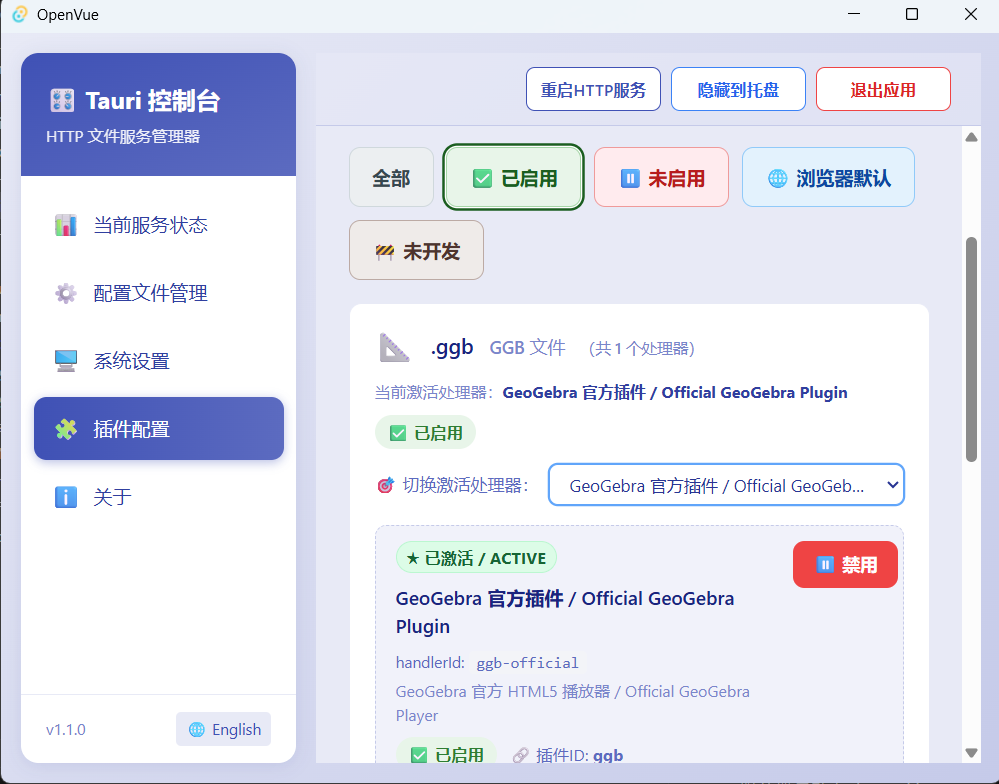
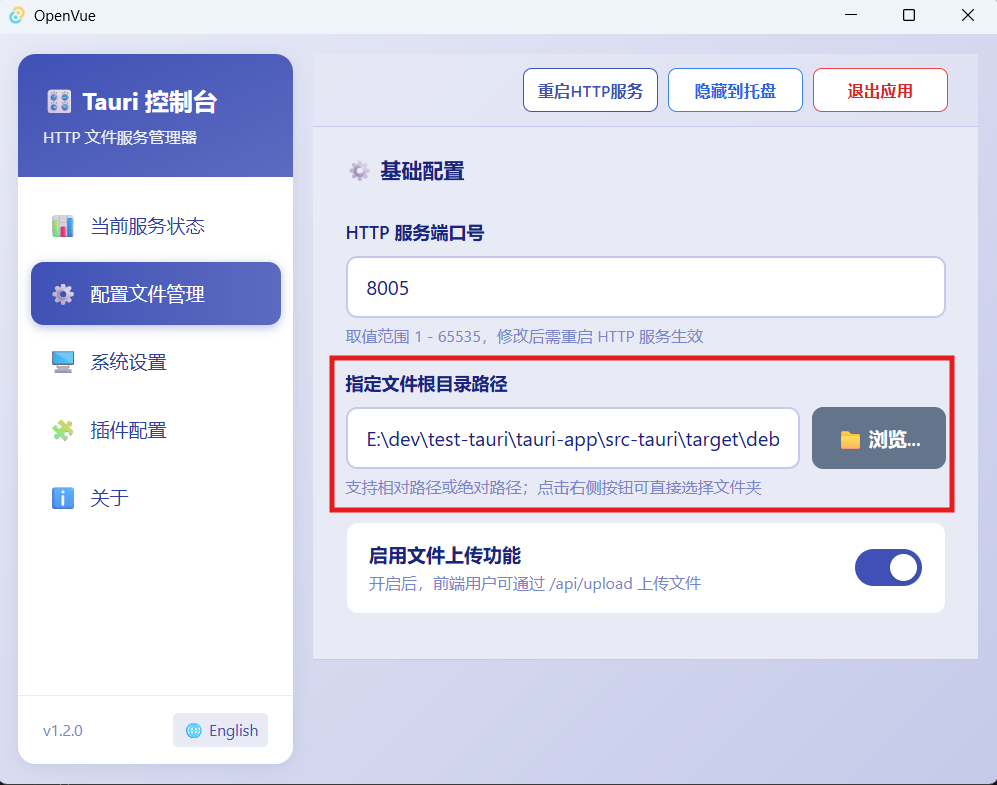
替换screenshots图片

diff --git a/README.md b/README.md
@@ -174,13 +174,25 @@ plugins/
 
 在 `plugins.json` 的 `extensions` 中添加对应扩展名配置即可完成注册。
 
+### 🧩 自定义插件（图形化添加）
+
+除了手动编辑 `plugins.json`，你还可以在桌面端插件配置面板中**一键添加自定义插件**，无需改代码、无需重启：
+
+1. 把插件文件（含 `index.html`）放到 `dist-web/plugins/` 下的新目录中
+2. 打开桌面端 → 插件配置面板 → 🔧 自定义插件区域
+3. 输入文件后缀名（如 `xmind`），点击 📁 浏览选择插件目录
+4. 点击 ➕ 添加插件
+
+程序会自动将该后缀名注册到 `plugins.json`，并设置为激活状态。添加后页面立即生效，浏览器访问对应文件时自动使用你的插件打开。
+
+> 💡 适合场景：临时想用某个第三方在线预览工具打开某类文件，只需把 HTML 页面放到 plugins 目录、在面板里点两下即可。
+
 ### ✅ 已支持的插件
 
 | 扩展名 | 插件名 | 说明 |
 |--------|--------|------|
 | `ggb` | GeoGebra | 数学动态几何课件预览（已内置） |
 | `md` | Markdown | Markdown 文档预览（已内置） |
-
 
 ---
 
